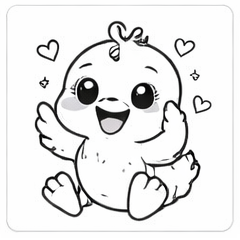
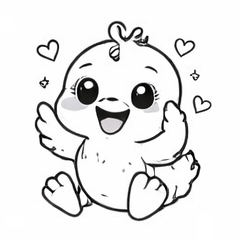
update images style

diff --git a/style.css b/style.css
@@ -886,7 +886,7 @@ header .pre-header {
     width: 100%;
     aspect-ratio: 1/1;
     border-radius: 20px;
-    transform: scale(1.12);
+    transform: scale(1);
     object-fit: cover;
     object-position: top;
     border: 1px solid var(--color-black);
@@ -1064,7 +1064,7 @@ background-color: var(--color-Yellow);
 }
 
 .coloring_pages_content .image_content:hover img {
-    transform: scale(1.12);
+    transform: scale(1);
 }
 
 /* Category title styling - for both sections */
